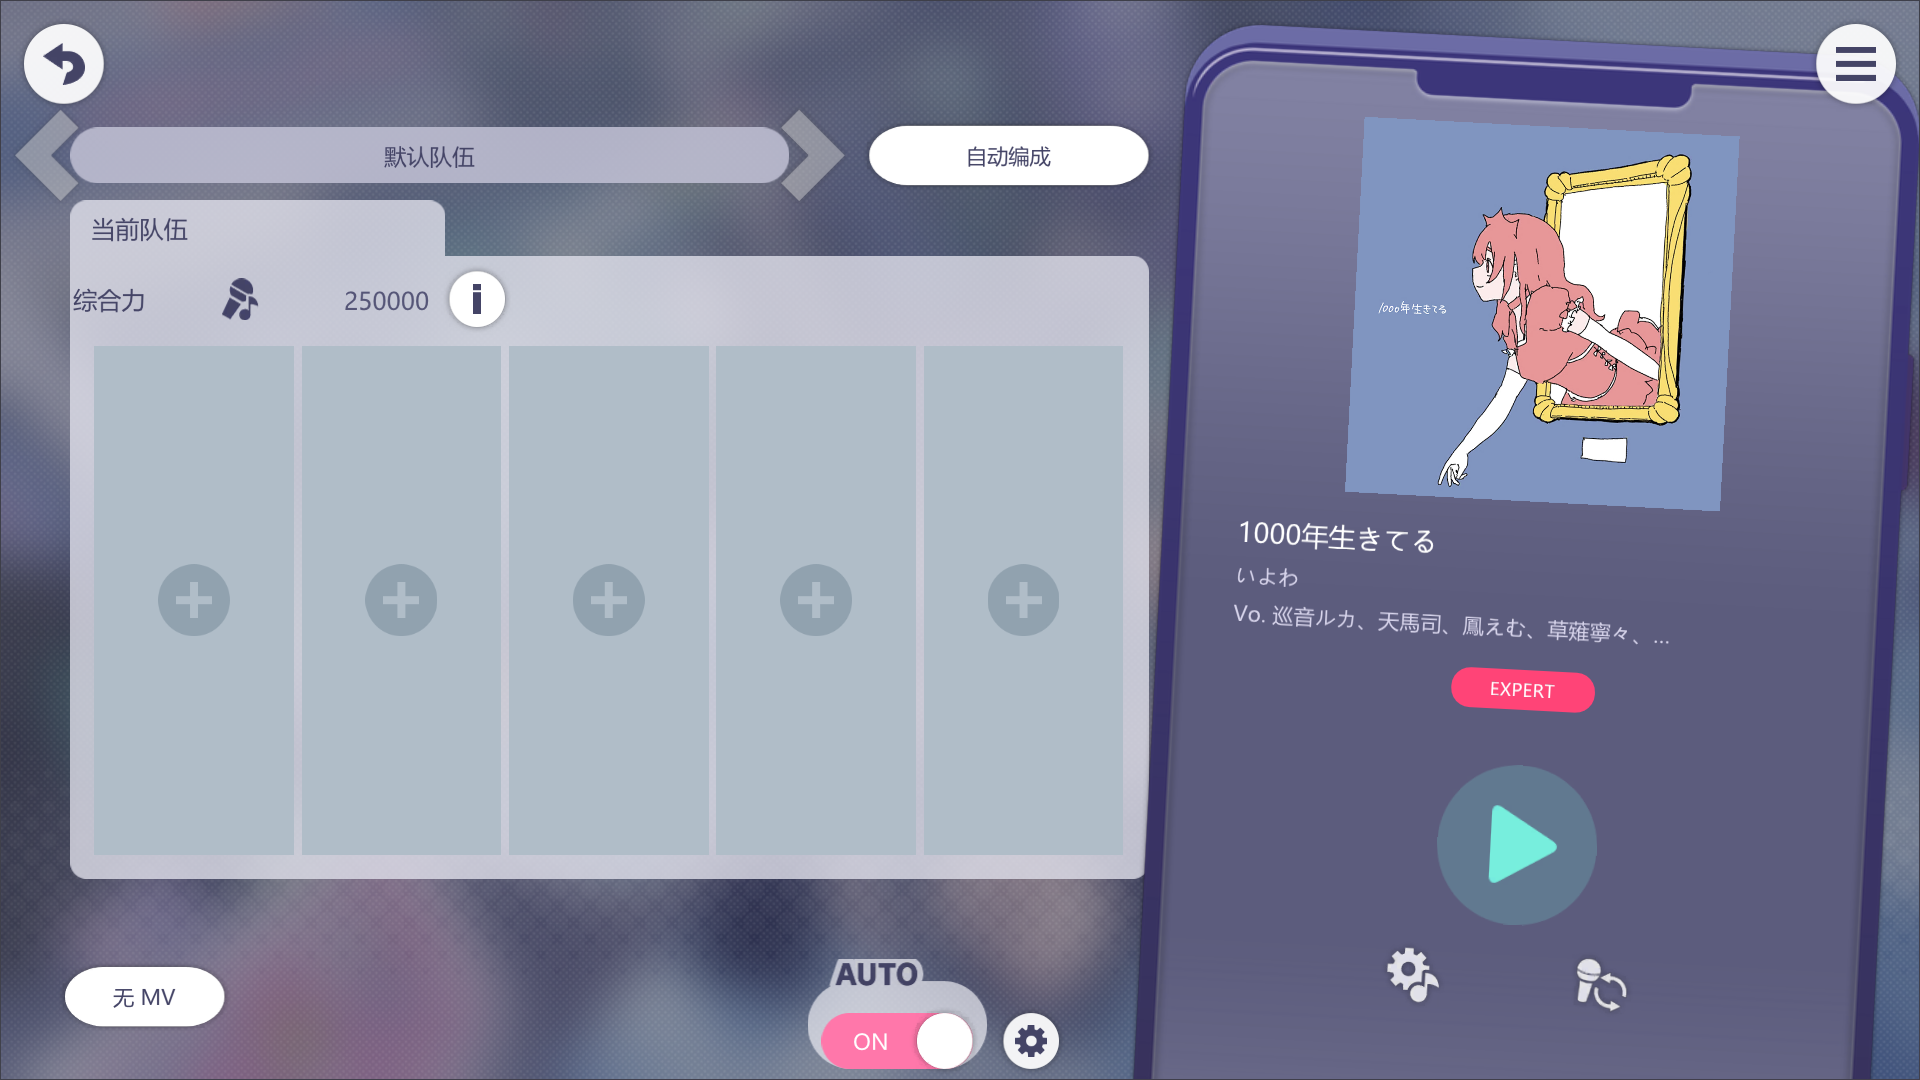
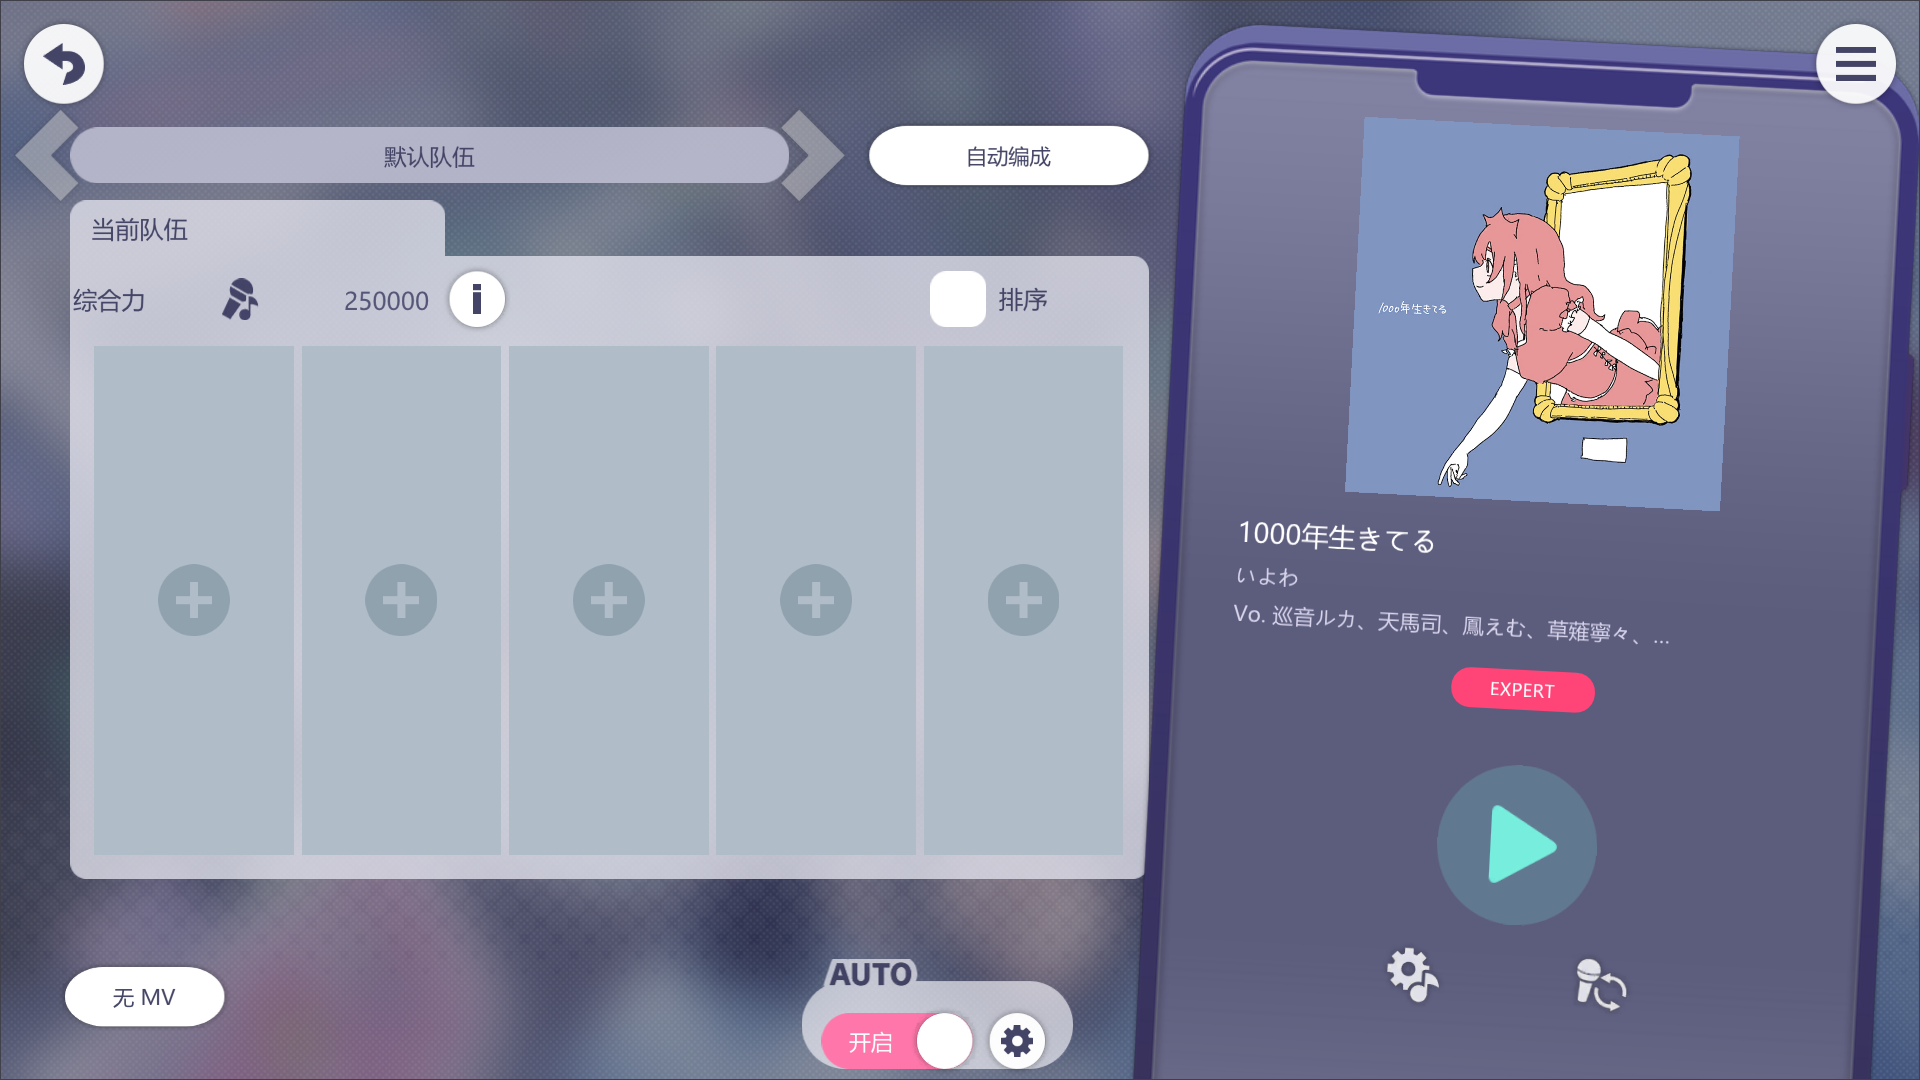
最终确认页 3：AUTO 齿轮进卡片 / 手机两页同一几何 / 转场去掉白闪
- 转场：删掉白色盖色。第一版"淡出到纯白→换页→淡入"本身就是一次白闪（用户指出
  是对的）。现在只淡内容：把背景之后的顶点 alpha 乘 0→1，两页共用同一张背景，
  所以背景纹丝不动、没有白也没有黑；选曲页的列表子窗口 draw list 也一起淡。
  实测全屏亮度 119.6→105.2→135.5 单调，无尖峰
- 手机：新增 phoneScreenRect(w,h,k)，选曲页和最终页共用；并删掉最终页多夹的
  k=min(k,h/1080)（高度≠1080 时整页缩到 0.94，手机跟着变）。1920x1017 与
  1920x1080 各截两页，手机左缘逐行完全一致
- AUTO：按国服截图重做成**一张卡片**（272x110，bg_auto 九宫格 119/0/51/0 横向
  拉伸），卡片里左边开关（白钮 + 「开启/关闭」，prefab 的 TextOn/TextOff 位置）、
  右边 72x72 小齿轮（btn_circle56_wh + icon_setting），齿轮在卡片内、点开设置
- 卡组行：补回 SwapMember 勾选框（56x56 bg_base_r16_wh @931.6,271.6）+「排序」
  标签（32px #444466 @1001）。上一版跳过的理由是照日文 6 字标签算的，国服版是
  两个字，完全放得下；点它切换列表排序并 toast
- 手机底部两格图标几何统一到 281.45/469.45、中心 y=948.55

Changed region(s): [[0.4062, 0.8861, 0.5625, 1.0], [0.4688, 0.2444, 0.5312, 0.3056]]

diff --git a/game/SongSelect.cpp b/game/SongSelect.cpp
@@ -3055,25 +3055,82 @@ namespace
         gFinalBurstQueued = false;
     }
 
-    void drawPageTransition(ImDrawList* dl, float w, float h, float now)
+    // 转场期间**内容**的不透明度：淡出 1→0、换页、淡入 0→1。
+    //
+    // ⚠ 这里绝对不能铺白色盖色 —— 铺了就是"闪白"：淡出到纯白的那一帧本身就是
+    // 一次白闪（2026-11-22 第一版就是这么做的，用户一眼就看出来）。两页画的
+    // 是**同一张背景**（壁纸 / bg_common，像素一致），所以正确的做法是把背景
+    // 之后的顶点整体乘 alpha：旧页内容渐隐 → 换页 → 新页内容渐显，背景一直在，
+    // 没有白。
+    float pageFadeContentAlpha(float now)
+    {
+        if (!pageSwitchBusy()) {
+            return 1.0f;
+        }
+        const float t = now - gPageFade.at;
+        if (!gPageFade.switched) {
+            return std::clamp(1.0f - t / kPageFadeOut, 0.0f, 1.0f);
+        }
+        return std::clamp((t - kPageFadeOut) / kPageFadeIn, 0.0f, 1.0f);
+    }
+
+    // 把 `dl` 里从 `vtx0` 开始的顶点（以及 `extra` 的**全部**顶点）乘一个 alpha。
+    // `extra` 是选曲页那个列表子窗口的 draw list —— 子窗口是另一张列表、渲染在
+    // 父窗口之后，只淡父窗口的话列表会留在原地。
+    void fadeContentVertices(ImDrawList* dl, int vtx0, ImDrawList* extra, float f)
+    {
+        if (f >= 0.999f) {
+            return;
+        }
+        const auto scale = [f](ImDrawList* list, int first) {
+            if (list == nullptr) {
+                return;
+            }
+            const int n = list->VtxBuffer.Size;
+            for (int i = std::max(0, first); i < n; ++i) {
+                ImU32& c = list->VtxBuffer[i].col;
+                const unsigned a = (c >> 24) & 0xFFu;
+                const unsigned na = static_cast<unsigned>(static_cast<float>(a) * f + 0.5f);
+                c = (c & 0x00FFFFFFu) | (na << 24);
+            }
+        };
+        scale(dl, vtx0);
+        scale(extra, 0);
+    }
+
+    // 转场结束后清状态（每帧末尾调一次）。
+    void tickPageFadeEnd(float now)
     {
         if (!pageSwitchBusy()) {
             return;
         }
-        const float t = now - gPageFade.at;
-        if (t >= kPageFadeOut + kPageFadeIn) {
+        if (now - gPageFade.at >= kPageFadeOut + kPageFadeIn) {
             gPageFade = PageFadeState{};
-            return;
         }
-        float a = 1.0f;
-        if (!gPageFade.switched) {
-            a = t / kPageFadeOut;
-        } else {
-            a = 1.0f - (t - kPageFadeOut) / kPageFadeIn;
-        }
-        a = std::clamp(a, 0.0f, 1.0f);
-        dl->AddRectFilled(ImVec2(0.0f, 0.0f), ImVec2(w, h),
-            IM_COL32(255, 255, 255, static_cast<int>(255.0f * a)));
+    }
+
+    // ScreenLayerFreeLiveCellPhone 的屏幕矩形 —— **选曲页和最终确认页共用这一份**。
+    // 以前两页各写一遍，最终页少了"画布矮时改用中心锚点"那条规则，于是窗口高度
+    // < 1080（最大化后被任务栏吃掉一截就是这样）时，手机在两页之间会上下跳
+    // ——用户报的"换页后不是同一台手机"。
+    struct PhoneRect
+    {
+        float x, y, w, h, ps;
+    };
+    PhoneRect phoneScreenRect(float w, float h, float k)
+    {
+        PhoneRect r{};
+        r.w = 754.3f * k;
+        r.h = 1416.7f * k;
+        r.x = w - 20.8f * k - r.w;
+        // 原作是中心锚点（中心 = 画布中心 + 202）：画布矮时整台手机上移，把
+        // "确定"留在屏内；但缩放调小以后画布比 1080 高，中心锚点反而把它往下推。
+        // 取两者里更靠上的那个。
+        const float yTop = 33.6f * k;
+        const float yCentered = h * 0.5f + 202.0f * k - r.h * 0.5f;
+        r.y = std::min(yTop, yCentered);
+        r.ps = r.w / 754.3f;
+        return r;
     }
 
     // 右上角菜单抽屉（原作 ScreenLayerHeader 的 menuButton -> MenuDialog，
@@ -3293,11 +3350,12 @@ namespace
         }
         ImDrawList* dl = ImGui::GetWindowDrawList();
         const ImGuiIO& io = ImGui::GetIO();
-        // Fit the 1920x1080 page into the window (min of width/height), then
-        // anchor the deck to the left and the phone to the right - the same
-        // edge rule as the select screen. Centering the whole canvas made a
-        // 20:9 window crop the bottom controls.
-        k = std::min(k, h / 1080.0f);
+        // ⚠ **不要再按 h/1080 二次夹 k**。选曲页的 k 是"按宽度匹配 + 锁 100%"，
+        // 而这里以前多夹了一次 min(k, h/1080)：窗口高度一旦不是 1080（最大化后
+        // 被任务栏吃掉一截、或者 125% 缩放的 1440p），最终页就整体缩到 0.94 倍，
+        // 于是"换页后手机变小/位置变了"。两页必须是同一个 k —— 边距本来就都写成
+        // `w - 20.8k`、`33.6k`，贴边规则自己会处理好宽高比。
+        (void)h;
         constexpr float ox = 0.0f;
         constexpr float oy = 0.0f;
         const ImVec2 mouse(io.MousePos.x, io.MousePos.y);
@@ -3467,6 +3525,41 @@ namespace
             }
         }
 
+        // ---- DeckView/DeckBase/SwapMember（checkbox + 标签）---------------------
+        // prefab：SwapMember 挂在 DeckBase 顶边右侧 (192.1,291.5)，子节点
+        //   UIPartsCheckBox 55x55 → CheckBox 56x56 @ 931.6,271.6（bg_base_r16_wh，
+        //   Sliced 21/21/21/21，白）+ Shadow 72x72 + Check（勾，m_IsActive=0）
+        //   Text 200x32 @ 1001,283.2，32px #444466
+        // 上一版整块被我跳过，理由是"标签 200 宽会伸出面板"——那是照日文
+        // 「メンバー入替」6 个字算的；国服截图里这颗勾选框的标签是**「排序」**
+        // 两个字、左对齐在 1001，正好落在面板里。所以按 prefab 画回来。
+        {
+            const Rect box = R(931.6f, 271.6f, 56.0f, 56.0f);
+            const ImU32 labelCol = rgba(0.26666668f, 0.26666668f, 0.4f, 1.0f);
+            const bool on = sortMode != nullptr && *sortMode != 0;
+            slice(finalTex(renderer, "bg_base_r16_wh"), 44, 44, 21.0f, 21.0f, 21.0f, 21.0f,
+                box.x0, box.y0, box.x1, box.y1, IM_COL32(255, 255, 255, 255));
+            if (on) {
+                // 勾：prefab 的 Check 44x34 @937.6,282.6（icon_check_pk 贴图缺失 →
+                // 用两条线画同一个勾，位置尺寸一致）。
+                const ImVec2 a(946.0f * k, 300.0f * k);
+                const ImVec2 b(954.0f * k, 308.0f * k);
+                const ImVec2 c(972.0f * k, 290.0f * k);
+                dl->AddLine(a, b, labelCol, 4.0f * k);
+                dl->AddLine(b, c, labelCol, 4.0f * k);
+            }
+            addTextLeft(dl, body, 32.0f * k, ImVec2(1001.0f * k, 299.2f * k), labelCol, "排序");
+            const float hitW = (1001.0f - 931.6f + 72.0f) * k;
+            if (hit(box.x0, box.y0, hitW, box.y1 - box.y0)) {
+                if (sortMode != nullptr) {
+                    *sortMode = (*sortMode == 0) ? 1 : 0;
+                    gFinalToast = (*sortMode == 0) ? "排序：按名称" : "排序：按等级";
+                    gFinalToastUntil = static_cast<double>(timeSec) + 2.0;
+                }
+                ui::se(ui::SeClick);
+            }
+        }
+
         // ---- DeckView/DeckCardList --------------------------------------------
         // HorizontalLayoutGroup：m_ChildAlignment=4 (MiddleCenter)、**m_Spacing=7.66**
         // （不是 16）。容器是 0 宽竖条：x 中心 609.6、y 346..856。
@@ -3510,11 +3603,12 @@ namespace
         // as the select screen: 754.3x1416.7, right edge 1899.15, top 33.6,
         // tilted +3deg about its centre (TransformList/DefaultPosition = (562,-202)).
         {
-            const float phoneW = 754.3f * k;
-            const float phoneH = 1416.7f * k;
-            const float phoneX = w - 20.8f * k - phoneW;
-            const float phoneY = 33.6f * k;
-            const float ps = phoneW / 754.3f;
+            const PhoneRect pr = phoneScreenRect(w, h, k);
+            const float phoneW = pr.w;
+            const float phoneH = pr.h;
+            const float phoneX = pr.x;
+            const float phoneY = pr.y;
+            const float ps = pr.ps;
             const auto PX = [&](float x) { return phoneX + x * ps; };
             const auto PY = [&](float y) { return phoneY + y * ps; };
             const ImVec2 pivot(phoneX + phoneW * 0.5f, phoneY + phoneH * 0.5f);
@@ -3752,23 +3846,26 @@ namespace
         }
 
         // ---- BottomLeft/AutoLiveToggle ----------------------------------------
-        // 容器在 prefab 里是 0x110（代码里 SetNativeSize），bg_auto 是 180x110、
-        //   Sliced (border 119/0/51/0)、m_Color 白 —— 70% 的白色烤在贴图里，
-        //   "AUTO" 四个字母也烤在贴图上。中心 x=898.6、上边 932.4。
-        // ToggleRoot 822.6,1014.4  152x56：
-        //   Bg      bg_base_round_h56_wh (33/28/33/28)：On #FF77AA / Off #444466
-        //   Toggle  72x72 toggle_btn_wh（**贴图缺失**，用同尺寸的 btn_circle_h56_wh）
-        //           On 中心 (946.1,1042.4)、Off 中心 (850.6,1042.4)
-        //   TextOn / TextOff 29px 白，框 772.6..972.6 / 888.8..958.8，垂直中心 1041.9
+        // 原作的 AUTO 是**一张卡片**：卡片上烤着 "AUTO" 字样，卡片里面左边是开关
+        // （白色圆钮 + 状态字），右边是一颗白色小圆齿轮（点开设置）。用户给的
+        // 国服截图就是这个结构 —— "设置按钮在 auto 里面"。
+        //
+        // prefab 拆开看零件都在（AutoLiveToggle 底下）：
+        //   Image   bg_auto 180x110，Sliced **119/0/51/0** —— 左 119 装 "AUTO"
+        //           三个字母、右 51 是右圆头，中间 10px 就是给**横向拉伸**用的
+        //   ToggleRoot 822.6,1014.4 152x56（Bg bg_base_round_h56_wh 33/28/33/28，
+        //           Off #444466 / On #FF77AA；旋钮 72x72，可见圆 56）
+        //   ConsecutiveAutoLiveSetting 72x72（btn_circle56_wh + 32x32 icon_setting）
+        // ⚠ prefab 把齿轮摆在 AUTO 的**正中**（和开关同一个点）—— 那是"开关/齿轮
+        // 互斥"的摆法，两者不可能同时可见；国服版是**并排**放在一张更宽的卡片里，
+        // 所以卡片按内容撑到 272 宽，齿轮放在开关右边：
+        //   卡片 802.6..1074.6 x 960.4..1070.4（高 110，底边对齐轨道底边）
+        //   轨道 822.6..974.6 x 1014.4..1070.4（prefab 原值，不动）
+        //   齿轮 982.6..1054.6 x 1006.4..1078.4（可见圆 1014.4..1070.4，和轨道齐）
         {
-            // 卡片顶边的那条实测是 932.4，但那个节点的 sizeDelta.x 是 **0**
-            // （Image 根本画不出来，宽度/位置由代码给），所以 932.4 不能当真值：
-            // 按"卡片包住开关"的意图把底边对齐到轨道底边（1070.4），
-            // 180x110 → 960.4..1070.4，正好上 54px 放 "AUTO" 字、下 56px 放开关。
-            // 上一版照 932.4 画，卡片和开关叠成"两个互相错开的胶囊"，就是看着不对的原因。
-            const Rect card = R(808.6f, 960.4f, 180.0f, 110.0f);
-            plain(finalTex(renderer, "bg_auto"), card.x0, card.y0, card.x1, card.y1,
-                IM_COL32(255, 255, 255, 255));
+            const Rect card = R(802.6f, 960.4f, 272.0f, 110.0f);
+            slice(finalTex(renderer, "bg_auto"), 180, 110, 119.0f, 0.0f, 51.0f, 0.0f,
+                card.x0, card.y0, card.x1, card.y1, IM_COL32(255, 255, 255, 255));
             const Rect track = R(822.6f, 1014.4f, 152.0f, 56.0f);
             slice(finalTex(renderer, "bg_base_round_h56_wh"), 66, 56, 33.0f, 28.0f, 33.0f, 28.0f,
                 track.x0, track.y0, track.x1, track.y1,
@@ -3780,31 +3877,26 @@ namespace
             plain(finalTex(renderer, "btn_circle_h56_wh"), knobCx - knob * 0.5f,
                 knobCy - knob * 0.5f, knobCx + knob * 0.5f, knobCy + knob * 0.5f,
                 IM_COL32(255, 255, 255, 255));
+            // 状态字在旋钮对面（prefab 的 TextOn/TextOff 就是这么摆的）。
             addTextCentered(dl, body, 29.0f * k,
                 ImVec2((autoLive ? 872.6f : 923.8f) * k, 1041.9f * k), IM_COL32(255, 255, 255, 255),
-                autoLive ? "ON" : "OFF");
+                autoLive ? "开启" : "关闭");
             if (hit(track.x0, track.y0, track.x1 - track.x0, track.y1 - track.y0)) {
                 autoLive = !autoLive;
                 ui::se(ui::SeClick);
             }
-            // AUTO 旁边那颗小齿轮 = prefab 里 AutoLiveToggle/ConsecutiveAutoLiveRoot/
-            // ConsecutiveAutoLiveSetting（72x72 的 `btn_circle56_wh` + 32x32 的
-            // `icon_setting` 染 #444466）。**prefab 把它摆在 AUTO 的正中**（和开关同
-            // 一个点），两者不可能同时可见；按用户实测的样子放在卡片右侧 8px、
-            // 竖直对齐开关中心：x 996.6..1068.6 / y 1006.4..1078.4。
-            // 点它 = 直接打开设置卡（不走原作那个"连続オートライブ設定"）。
+            // 卡片右侧那颗小齿轮（**在卡片里**，不是外面）
             {
-                const Rect g = R(996.6f, 1006.4f, 72.0f, 72.0f);
+                const Rect g = R(982.6f, 1006.4f, 72.0f, 72.0f);
                 const bool gHot = hover(g.x0, g.y0, g.x1 - g.x0, g.y1 - g.y0) && !finalMenuUp;
                 plain(selectTex(renderer, "btn_circle56_wh"), g.x0, g.y0, g.x1, g.y1,
-                    IM_COL32(255, 255, 255, gHot ? 255 : 235));
+                    IM_COL32(255, 255, 255, gHot ? 255 : 245));
                 const float gi = 16.0f * k;
                 const ImVec2 gc((g.x0 + g.x1) * 0.5f, (g.y0 + g.y1) * 0.5f);
                 plain(finalTex(renderer, "icon_setting_wh"), gc.x - gi, gc.y - gi, gc.x + gi,
                     gc.y + gi, rgba(0.26666668f, 0.26666668f, 0.4f, 1.0f));
                 if (hit(g.x0, g.y0, g.x1 - g.x0, g.y1 - g.y0)) {
                     ui::se(ui::SeClick);
-                    requestPageSwitch(false, static_cast<float>(timeSec));
                     autoGearSettingsHit = true;
                 }
             }
@@ -3935,6 +4027,10 @@ namespace
                 }
             }
         }
+        // 转场：把背景之后的顶点整体乘 alpha（背景不淡）。header / 抽屉也在这之后
+        // 画的，所以一起淡 —— 换页那 0.36 s 里它们跟着内容走。
+        fadeContentVertices(dl, contentVtx0, nullptr,
+            pageFadeContentAlpha(static_cast<float>(timeSec)));
         return finalResult;
     }
 } // namespace
@@ -4680,7 +4776,7 @@ int drawSongSelect(platform::Renderer& renderer, const std::vector<ChartEntry>& 
                 *confirmPhoneScreen = gFinalPhoneScreen;
             }
         }
-        drawPageTransition(dl, w, h, static_cast<float>(timeSec));
+        tickPageFadeEnd(static_cast<float>(timeSec));
         ImGui::End();
         if (gSelectFillDisabled) {
             ImGui::PopStyleColor();
@@ -4760,6 +4856,9 @@ int drawSongSelect(platform::Renderer& renderer, const std::vector<ChartEntry>& 
             dl->AddCircleFilled(ImVec2(glowX, h * 0.35f), h * 0.6f, IM_COL32(120, 130, 230, 30), 64);
         }
     }
+
+    // 转场只淡"内容"，背景不淡：两页的背景是同一份像素，渐隐渐显时纹丝不动。
+    const int pageFadeVtx0 = dl->VtxBuffer.Size;
 
     const ImU32 white = IM_COL32(255, 255, 255, 255);
     const ImU32 grayText = IM_COL32(178, 178, 198, 255);
@@ -6246,17 +6345,13 @@ int drawSongSelect(platform::Renderer& renderer, const std::vector<ChartEntry>& 
     //     中心锚点会把手机往下推，顶部反而空一大块；原作的静态上缘就是 33.6。
     // 宽度大于画布时（窗口很矮/很窄）仍然按 33.6k 贴顶、底部被切，和原作
     // "手机比屏幕高"的观感一致。
-    const float phoneW = 754.3f * k;
-    const float phoneH = 1416.7f * k;
-    const float phoneX = w - 20.8f * k - phoneW;
-    // 垂直：原作是中心锚点（中心 = 画布中心 + 202），画布矮（21:9）时整台手机上移，
-    // 把"确定"留在屏内；但缩放调小以后画布比 1080 高，中心锚点会把手机往下推，
-    // 顶上反而空一大块。所以取"上缘 33.6k"和"原作中心锚点"里更靠上的那个：
-    //   16:9 100% → 两者都是 33.6；16:9 70% → 33.6*0.7 贴顶；
-    //   21:9 → 中心锚点更靠上，和原作一致（顶部被切、确定可见）。
-    const float phoneYTop = 33.6f * k;
-    const float phoneYCentered = h * 0.5f + 202.0f * k - phoneH * 0.5f;
-    const float phoneY = std::min(phoneYTop, phoneYCentered);
+    // 几何全部来自 phoneScreenRect()：最终确认页用的是**同一个函数**，
+    // 两页的手机不可能再对不上（见那里的注释）。
+    const PhoneRect phoneRect = phoneScreenRect(w, h, k);
+    const float phoneW = phoneRect.w;
+    const float phoneH = phoneRect.h;
+    const float phoneX = phoneRect.x;
+    const float phoneY = phoneRect.y;
     // Tutorial anchor: the phone panel is the "pick a song here" surface, and a
     // spotlight around the whole panel reads far better than one around the
     // EASY circle (which also used to dim 确定).
@@ -7543,7 +7638,8 @@ int drawSongSelect(platform::Renderer& renderer, const std::vector<ChartEntry>& 
             }
         }
     }
-    drawPageTransition(dl, w, h, static_cast<float>(timeSec));
+    fadeContentVertices(dl, pageFadeVtx0, listDl, pageFadeContentAlpha(static_cast<float>(timeSec)));
+    tickPageFadeEnd(static_cast<float>(timeSec));
     ImGui::End();
     ImGui::PopStyleVar(2);
     if (gSelectFillDisabled) {
